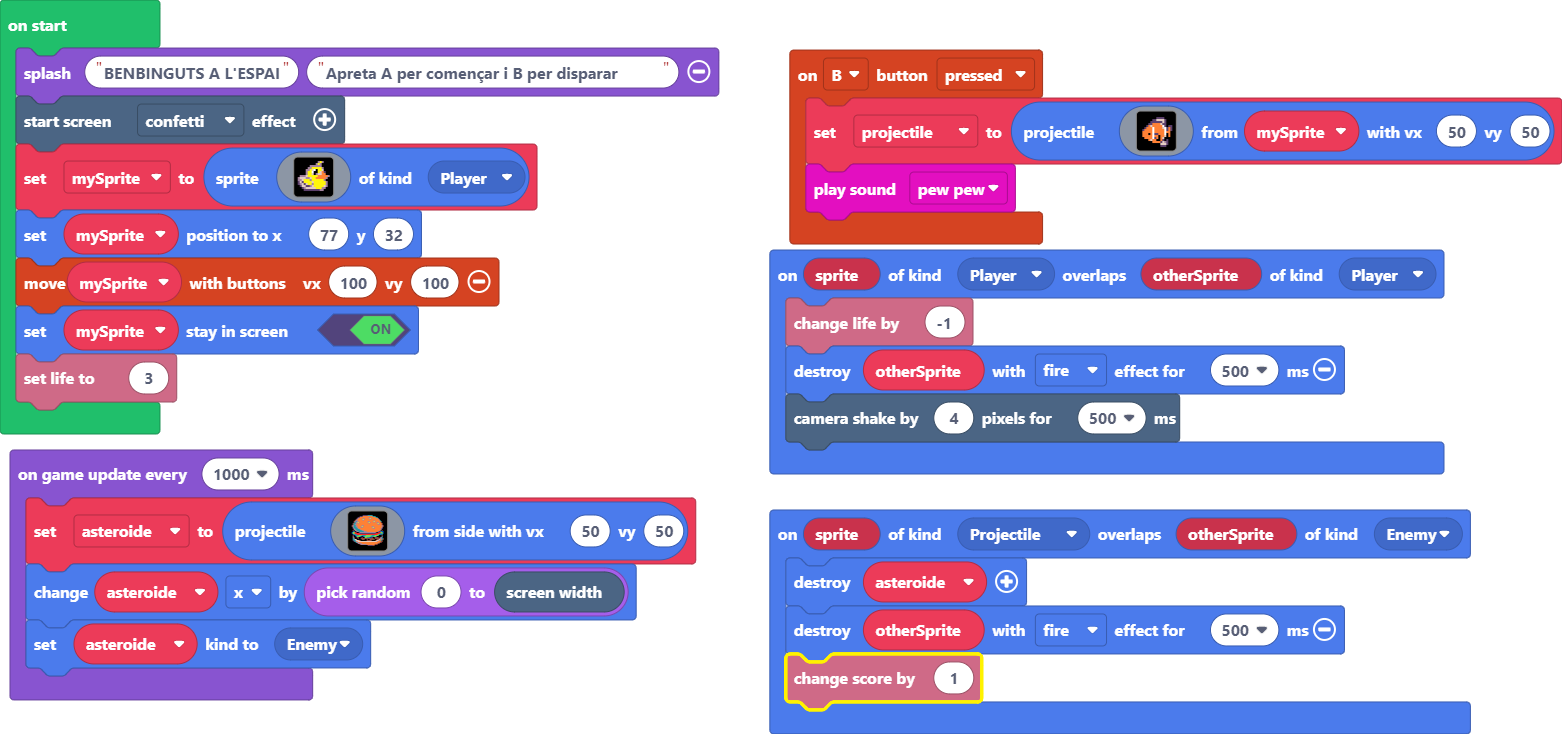
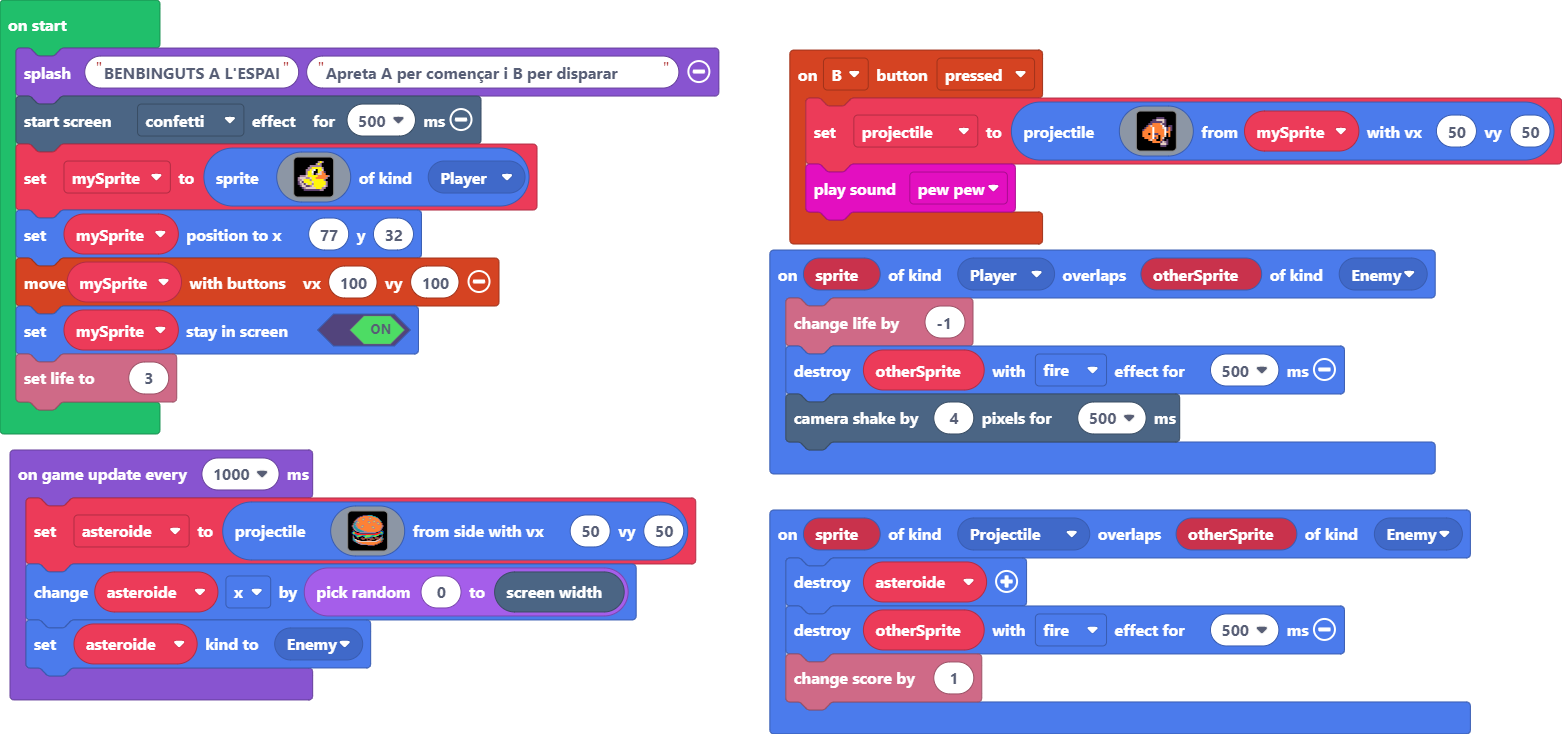
Update pxt.json, main.blocks, main.ts

diff --git a/main.ts b/main.ts
@@ -19,21 +19,21 @@ controller.B.onEvent(ControllerButtonEvent.Pressed, function () {
         `, mySprite, 50, 50)
     music.pewPew.play()
 })
-sprites.onOverlap(SpriteKind.Player, SpriteKind.Player, function (sprite, otherSprite) {
-    info.changeLifeBy(-1)
-    otherSprite.destroy(effects.fire, 500)
-    scene.cameraShake(4, 500)
-})
 sprites.onOverlap(SpriteKind.Projectile, SpriteKind.Enemy, function (sprite, otherSprite) {
     asteroide.destroy()
     otherSprite.destroy(effects.fire, 500)
     info.changeScoreBy(1)
 })
+sprites.onOverlap(SpriteKind.Player, SpriteKind.Enemy, function (sprite, otherSprite) {
+    info.changeLifeBy(-1)
+    otherSprite.destroy(effects.fire, 500)
+    scene.cameraShake(4, 500)
+})
 let asteroide: Sprite = null
 let projectile: Sprite = null
 let mySprite: Sprite = null
 game.splash("BENBINGUTS A L'ESPAI", "Apreta A per començar i B per disparar")
-effects.confetti.startScreenEffect()
+effects.confetti.startScreenEffect(500)
 mySprite = sprites.create(img`
     . . . . . . . . . . b 5 b . . . 
     . . . . . . . . . b 5 b . . . . 
